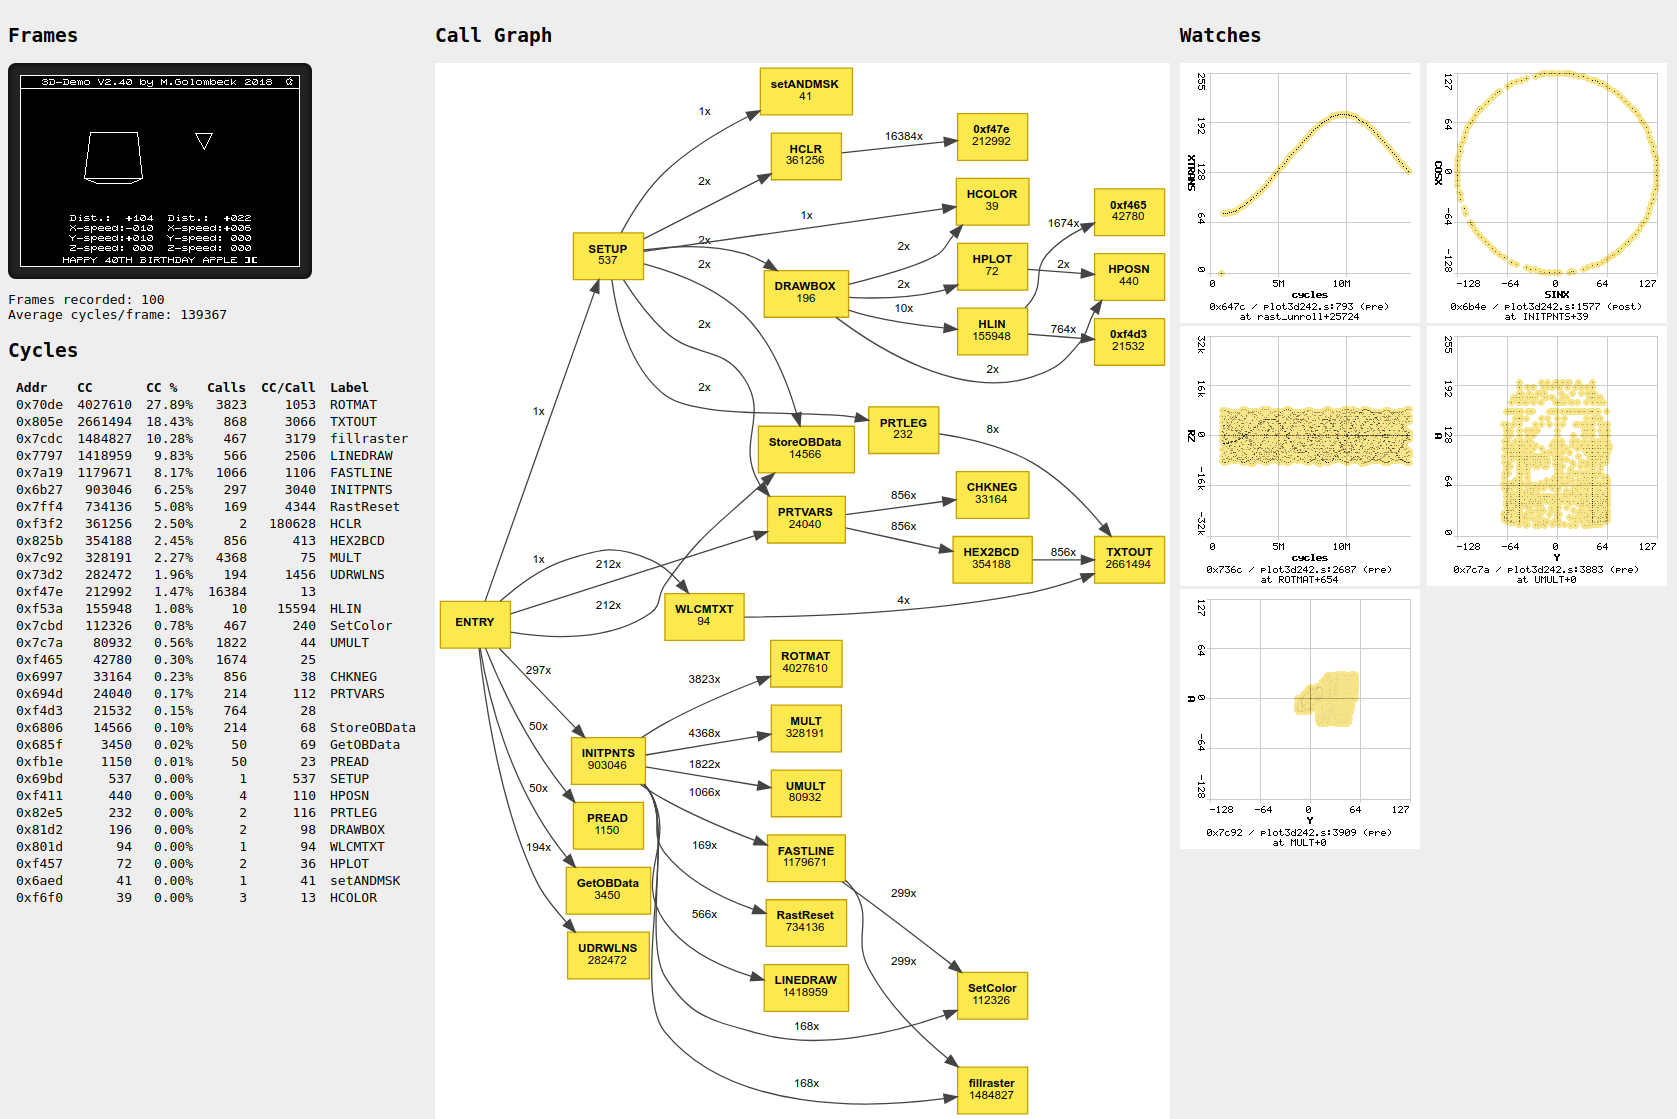
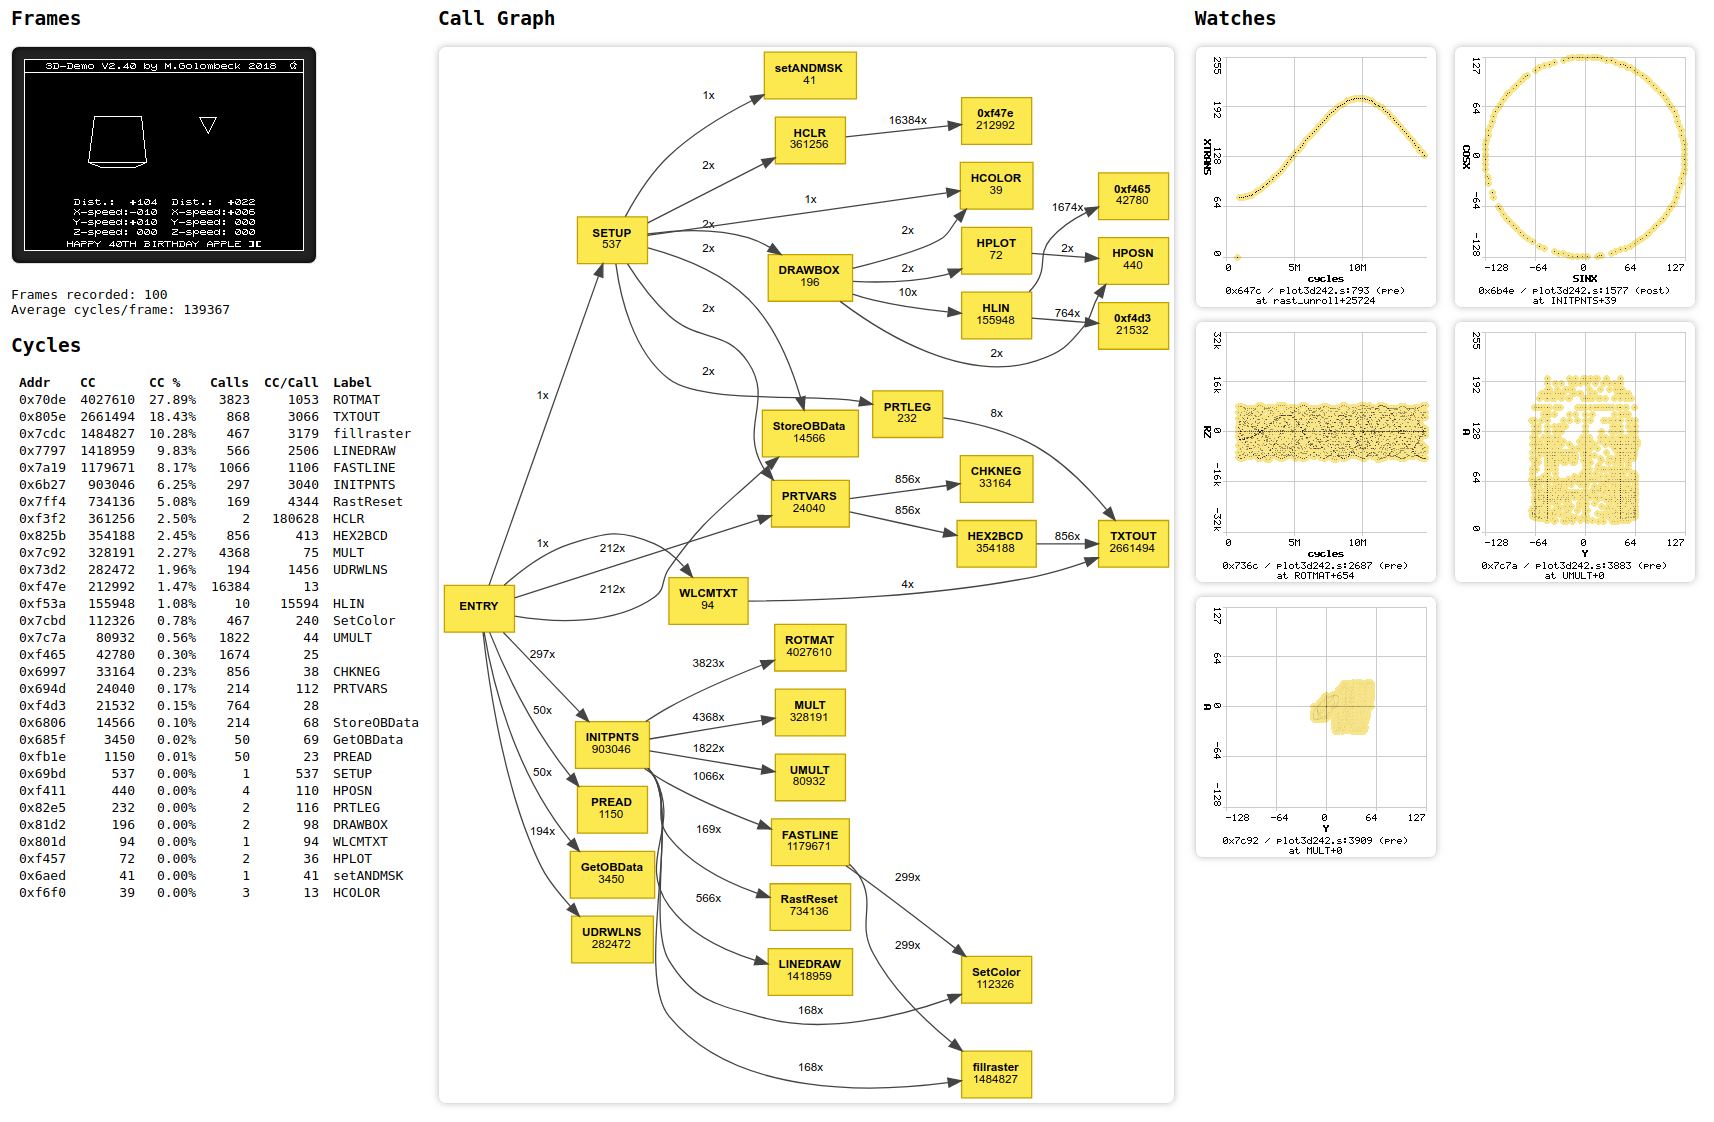
documentation

diff --git a/champ.rb b/champ.rb
@@ -799,7 +799,7 @@ __END__
     <title>champ report</title>
     <style type='text/css'>
     body {
-        background-color: #eee;
+        // background-color: #eee;
         font-family: monospace;
     }
     .screenshot {
@@ -807,6 +807,13 @@ __END__
         box-shadow: inset 0 0 10px rgba(0,0,0,1.0);
         padding: 12px;
         border-radius: 8px;
+    }
+    img, svg {
+        border: 1px solid #ddd;
+        border-radius: 8px;
+        box-shadow: 0 0 10px rgba(0,0,0,0.2);
+        margin-right: 10px;
+        margin-bottom: 10px;
     }
     th, td {
         text-align: left;
